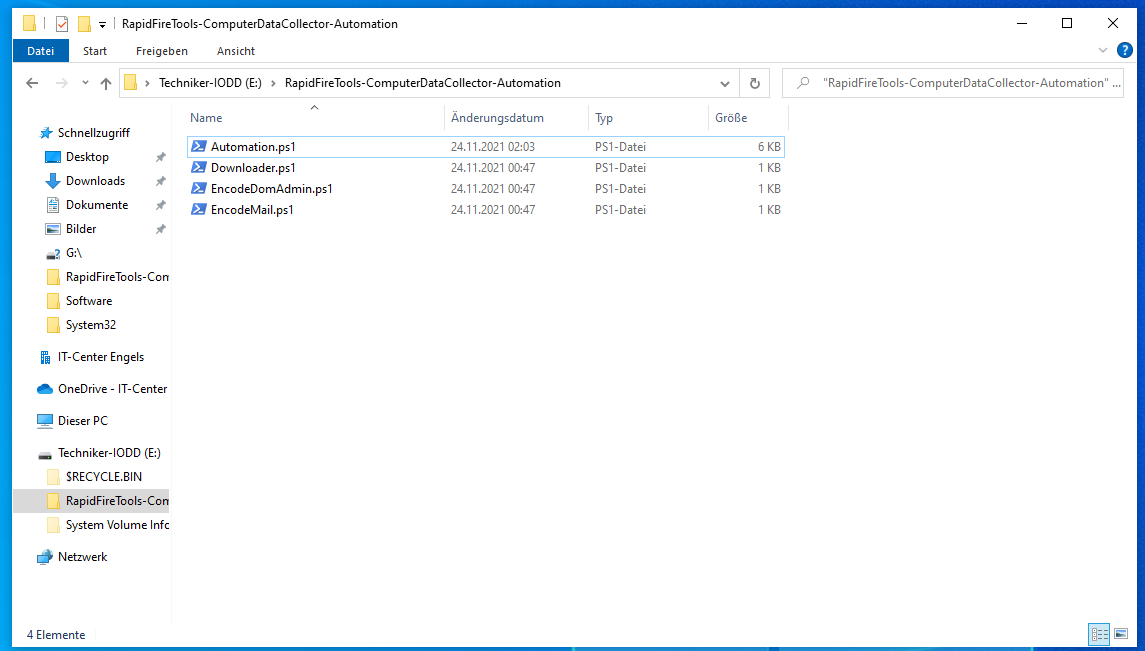
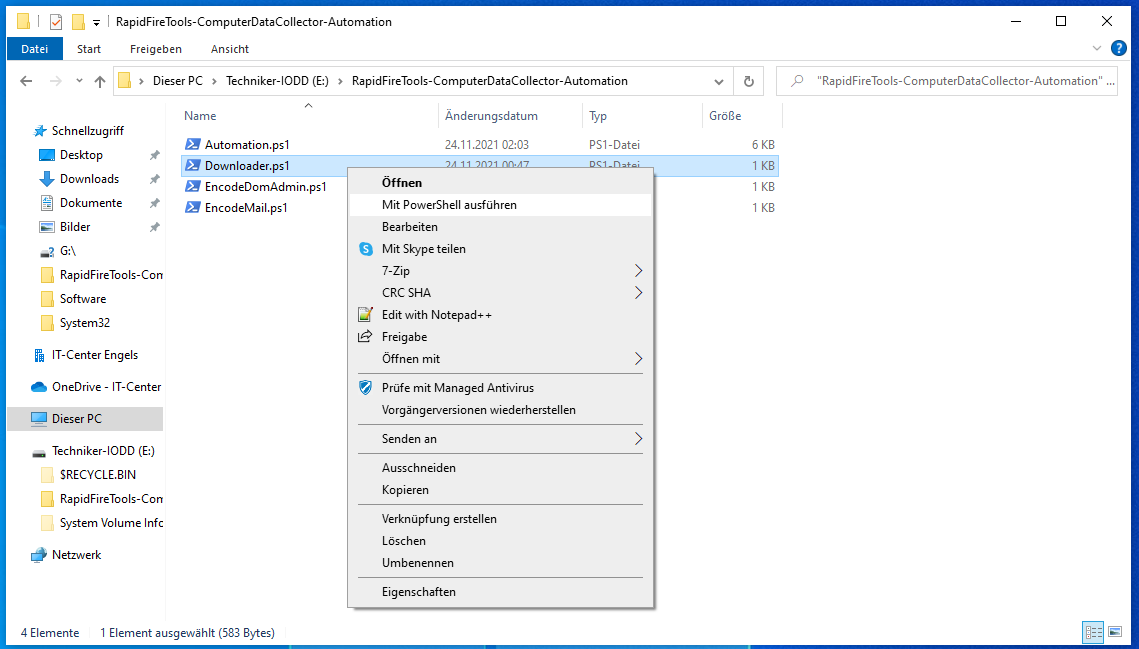
Wrote guide

diff --git a/README.md b/README.md
@@ -1,5 +1,37 @@
 # RapidFireTools-ComputerDataCollector-Automation
 Automation for RapidFire Tools Computer Data Collector.
 
+1. Move the Project to a usb stick.
 <img src="./Images/1.png"/>
 
+2. Run the "Download.ps1" to download the Computer Data Collector from RapidFire Tools by right clicking and then choosing "Run with PowerShell".
+<img src="./Images/2.png"/>
+
+3. After the download is finished the script will unzip it and delete the zip file. All you will be left with, will be the unpacked Computer Data Collector.
+<img src="./Images/3.png"/>
+
+4. Run the "EncodeDomAdmin.ps1" script to encrypt the credentials of an admin which will later be used to run the Computer Data Collector. Just state the credentials and hit "OK".
+<img src="./Images/4.png"/>
+
+5. Run the "EncodeMail.ps1" script to encrypt the credentials for a gmail mailbox. This will later be used to send the results.
+<img src="./Images/5.png"/>
+
+6. Now you should have the credentials in separat files (only passwords will be encrypted). Next create a new text file.
+<img src="./Images/6.png"/>
+
+7. Name it "MailRecipient.txt" and write the mail address of the results recipient. Don't forget to save.
+<img src="./Images/7.png"/>
+
+8. Finally run "Automatisierung.ps1". The Computer Data Collector will be copied to the local Machine. You will be prompted for the Inventar-ID of the workstation first. Just type it in and press the enter key.
+<img src="./Images/8.png"/>
+
+9. Afterwards the Computer Data Collector will be executed.
+<img src="./Images/9.png"/>
+
+10. It will be running under the supplied user account (domain administrator).
+<img src="./Images/10.png"/>
+
+11. When the Computer Data Collector is done, it will output a CDF file and many others. The CDF file will be renamed to contain the computer name and Inventar-ID. Then the CDF file will be sent off via mail.
+<img src="./Images/11.png"/>
+
+Done.
